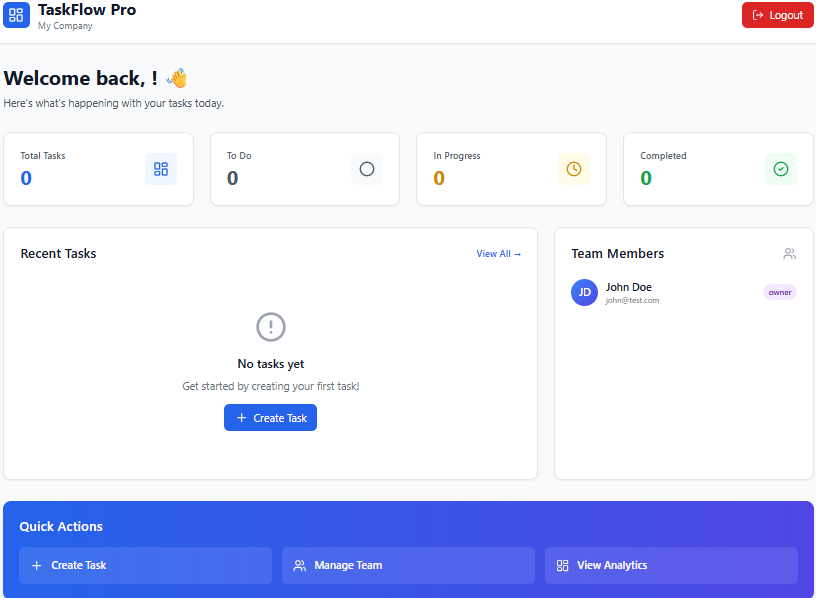
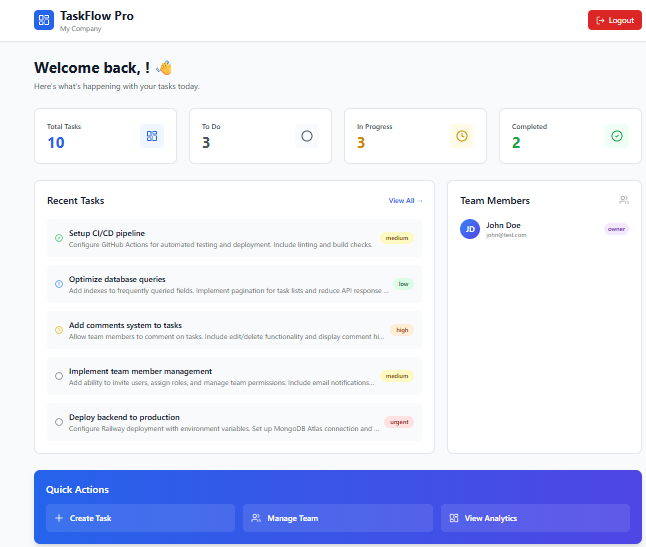
docs: Update README with Task List features and screenshots section
Updates:
- Add Task List page to features
- Update progress to 82%
- Document search and filter capabilities
-Login page description
- Register page description
- Dashboard description
- Create Task modal description
- Note about live demo Document task management features
- Add delete functionality documentation
- Update frontend features list
- Add new Task Management section with detailed feature breakdown

Screenshots:
- Add task-list.png showing filtered task view
- Add create-task.png showing task creation modal
- Update dashboard.png with fixed layout
- All screenshots showing professional demo data

Features Documented:
- Real-time search
- Multi-criteria filtering
- Delete with permissions
- Task operations
- UI components

UI Fixes:
- Fix priority badge overflow on dashboard task items
- Add text truncation for long task titles
- Add min-w-0 for proper flex shrinking
- Add whitespace-nowrap to priority badges
- Improve spacing between task content and badges

Demo Data:
- 10 realistic tasks covering various workflows
- Mix of statuses: Todo, In Progress, Review, Done
- Mix of priorities: Low, Medium, High, Urgent
- Professional descriptions and tags
- Realistic due dates including overdue items

diff --git a/frontend/src/pages/Dashboard.jsx b/frontend/src/pages/Dashboard.jsx
@@ -272,35 +272,32 @@ const StatCard = ({ title, value, icon, bgColor, textColor }) => (
 // Task Item Component
 const TaskItem = ({ task }) => {
   const priorityColors = {
-    urgent: "bg-red-100 text-red-800",
-    high: "bg-orange-100 text-orange-800",
-    medium: "bg-yellow-100 text-yellow-800",
-    low: "bg-green-100 text-green-800",
+    urgent: 'bg-red-100 text-red-800',
+    high: 'bg-orange-100 text-orange-800',
+    medium: 'bg-yellow-100 text-yellow-800',
+    low: 'bg-green-100 text-green-800'
   };
 
   const statusIcons = {
-    todo: <Circle size={16} className="text-gray-500" />,
-    "in-progress": <Clock size={16} className="text-yellow-500" />,
-    review: <AlertCircle size={16} className="text-blue-500" />,
-    done: <CheckCircle2 size={16} className="text-green-500" />,
+    'todo': <Circle size={16} className="text-gray-500" />,
+    'in-progress': <Clock size={16} className="text-yellow-500" />,
+    'review': <AlertCircle size={16} className="text-blue-500" />,
+    'done': <CheckCircle2 size={16} className="text-green-500" />
   };
 
   return (
     <div className="flex items-center justify-between p-4 bg-gray-50 rounded-lg hover:bg-gray-100 transition-colors cursor-pointer">
-      <div className="flex items-center space-x-3 flex-1">
+      <div className="flex items-center space-x-3 flex-1 min-w-0">
         {statusIcons[task.status]}
-        <div className="flex-1">
-          <h4 className="font-medium text-gray-900">{task.title}</h4>
+        <div className="flex-1 min-w-0">
+          <h4 className="font-medium text-gray-900 truncate">{task.title}</h4>  
           {task.description && (
             <p className="text-sm text-gray-500 truncate">{task.description}</p>
           )}
         </div>
       </div>
-      <span
-        className={`px-3 py-1 rounded-full text-xs font-medium ${
-          priorityColors[task.priority]
-        }`}
-      >
+      <span className={`px-3 py-1 rounded-full text-xs font-medium whitespace-nowrap ml-2 ${priorityColors[task.priority]}`}>
+        
         {task.priority}
       </span>
     </div>

diff --git a/README.md b/README.md
@@ -44,6 +44,10 @@
 - [x] **Protected routes** - Auth guards and auto-redirects
 - [x] **Create Task modal** - Beautiful form with all task fields
 - [x] **Real-time dashboard updates** - Auto-refresh after task creation
+- [x] **Task List page** - View all tasks with advanced filtering
+- [x] **Search & Filters** - Search by text, filter by status and priority
+- [x] **Delete tasks** - With confirmation dialog and permission checks
+- [x] **Real-time filtering** - Instant results as you type
 
 ### 🚧 Future Enhancements
 - [ ] Real-time updates (Socket.io)
@@ -377,7 +381,14 @@ MIT License - feel free to use this for learning!
 ![Register Page](screenshots/register.png)
 *Simple workspace creation flow*
 
-> **Note:** To add screenshots, create a `screenshots/` folder in the root and add images. Then update paths above.
+### Task List
+![Task List](screenshots/task-list.png)
+*Comprehensive task management with search and filters*
+
+### Create Task Modal
+![Create Task Modal](screenshots/create-task.png)
+*Beautiful form for creating new tasks*
+
 
 ## 🎯 Project Goals
 
@@ -395,19 +406,19 @@ This project demonstrates:
 
 ## 📊 Project Status
 ```
-Foundation:        ████████████████████ 100% ✅
-Authentication:    ████████████████████ 100% ✅
-Multi-Tenancy:     ████████████████████ 100% ✅
-Task Management:   ████████████████████ 100% ✅
-Permissions:       ████████████████████ 100% ✅
-Deployment:        ████████████████████ 100% ✅
-Frontend (Auth):   ████████████████████ 100% ✅
-Frontend (Dashboard): ███████████████ 90% ✅
-Frontend (Tasks):  ████░░░░░░░░░░░░░░░░  20%
-Real-time:         ░░░░░░░░░░░░░░░░░░░░   0%
-Advanced Features: ░░░░░░░░░░░░░░░░░░░░   0%
+Foundation:           ████████████████████ 100% ✅
+Authentication:       ████████████████████ 100% ✅
+Multi-Tenancy:        ████████████████████ 100% ✅
+Task Management:      ████████████████████ 100% ✅
+Permissions:          ████████████████████ 100% ✅
+Deployment:           ████████████████████ 100% ✅
+Frontend (Auth):      ████████████████████ 100% ✅
+Frontend (Dashboard): ██████████████████ 100% ✅
+Frontend (Tasks):     ████████████░░░░░░░░  60%
+Real-time:            ░░░░░░░░░░░░░░░░░░░░   0%
+Advanced Features:    ░░░░░░░░░░░░░░░░░░░░   0%
 
-Overall Progress:  ████████████████░░░░ 78%
+Overall Progress:     ████████████████░░░░ 82%
 ```
 
 ## 🎉 Key Achievements
@@ -431,6 +442,11 @@ Overall Progress:  ████████████████░░░░ 
 - 🔄 Real-time dashboard updates after operations
 - 🎯 Form validation and error handling
 - 📋 Tag support for task organization
+- 📝 Task List page with advanced filtering
+- 🔍 Real-time search functionality
+- 🎯 Multi-criteria filtering (status + priority + search)
+- 🗑 Delete with permission checks and confirmation
+- 📊 Dynamic task counts and statistics
 ---
 
 **⭐ Star this repo if you find it helpful!**
@@ -458,6 +474,12 @@ Overall Progress:  ████████████████░░░░ 
 - ✅ Team members widget
 - ✅ Quick actions section
 - ✅ Create Task modal with full form
+- ✅ Task List page with all tasks
+- ✅ Advanced search and filtering
+- ✅ Filter by status (Todo, In Progress, Review, Done)
+- ✅ Filter by priority (Low, Medium, High, Urgent)
+- ✅ Delete tasks with confirmation
+- ✅ Permission-based task operations
 - ✅ Task creation with tags, priority, status
 - ✅ Auto-refresh after task operations
 - ✅ Protected routes with auth guards
@@ -465,13 +487,15 @@ Overall Progress:  ████████████████░░░░ 
 - ✅ Modern gradient UI
 - ✅ Loading states & error handling
 - ✅ Toast notifications
-- 🚧 Task List page (in development)
-- 🚧 Edit/Delete tasks (coming soon)
+- 🚧 Edit tasks (coming soon)
+- 🚧 Task details with comments (coming soon)
+
 
 **Pages:**
 - ✅ Login with JWT authentication
 - ✅ Register with workspace creation
 - ✅ Dashboard with statistics & team view
+- ✅ Task List with search and filters
 - 🚧 Task Management (in development)
 - 🚧 Team Management (planned)
 
@@ -490,6 +514,41 @@ Frontend runs on: http://localhost:5173
 - Statistics update based on actual task data
 - All components integrated with backend API
 
+## 📋 Task Management Features
+
+### Create Tasks
+- **Modal-based creation** with beautiful UI
+- **Full form** including title, description, status, priority, due date, tags
+- **Real-time validation** with helpful error messages
+- **Instant feedback** with toast notifications
+- **Auto-refresh** dashboard and task list after creation
+
+### View Tasks
+- **Dashboard preview** - Recent 5 tasks with quick overview
+- **Full task list** - All tasks with complete details
+- **Task cards** showing status, priority, tags, due date, creator
+- **Visual indicators** with colored status icons and priority badges
+
+### Search & Filter
+- **Text search** - Search across task titles and descriptions
+- **Status filter** - Show only Todo, In Progress, Review, or Done tasks
+- **Priority filter** - Filter by Low, Medium, High, or Urgent
+- **Combined filters** - Use multiple filters simultaneously
+- **Filter summary** - Shows count of filtered vs total tasks
+- **Clear filters** - One-click reset to show all tasks
+
+### Delete Tasks
+- **Confirmation dialog** - Prevents accidental deletion
+- **Permission checks** - Only task creator, assignee, owner, or admin can delete
+- **Workspace isolation** - Can only delete tasks from your workspace
+- **Instant removal** - Task disappears immediately with success notification
+- **Database cleanup** - Permanently removes from MongoDB
+
+### Permissions
+- **Members** - Can create tasks, edit/delete own tasks
+- **Admins** - Can edit/delete any task in workspace
+- **Owners** - Full control over all tasks
+- **Automatic enforcement** - Backend validates all operations
 ## 🔌 Frontend-Backend Connection
 
 The frontend connects to the backend API using:
